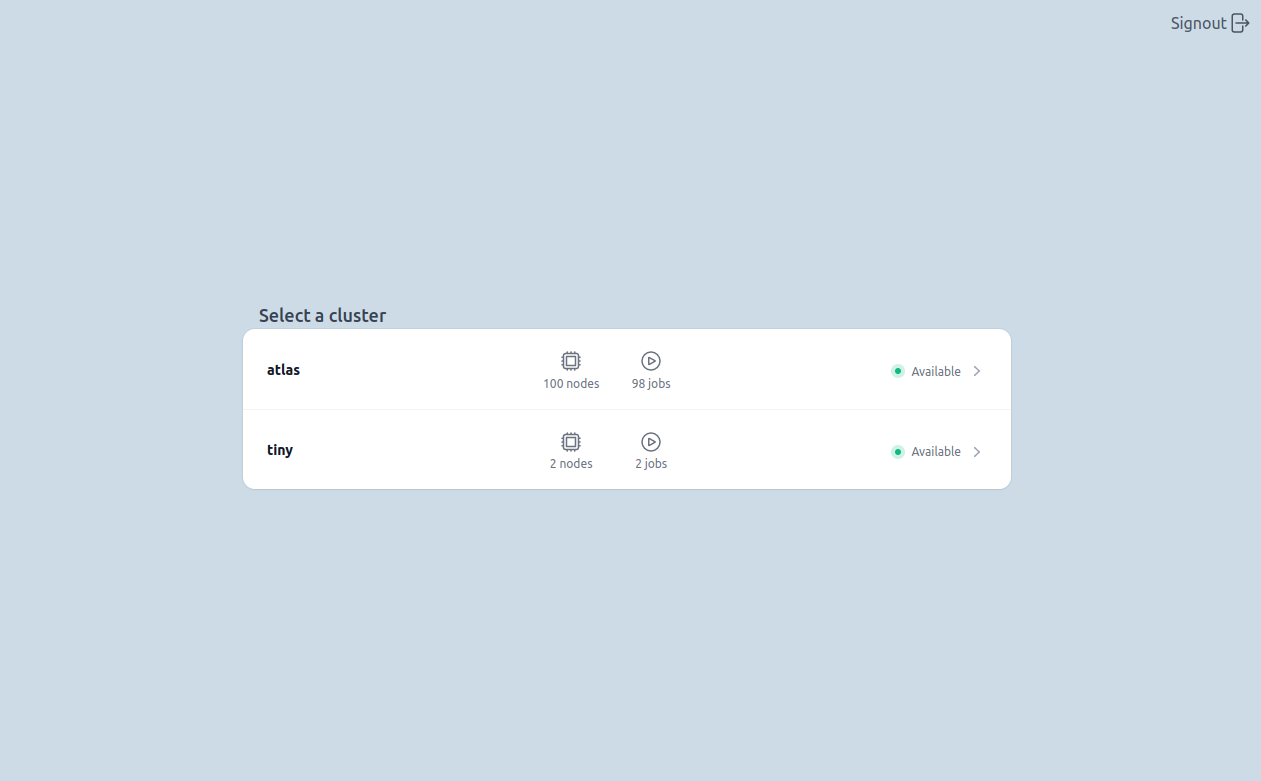
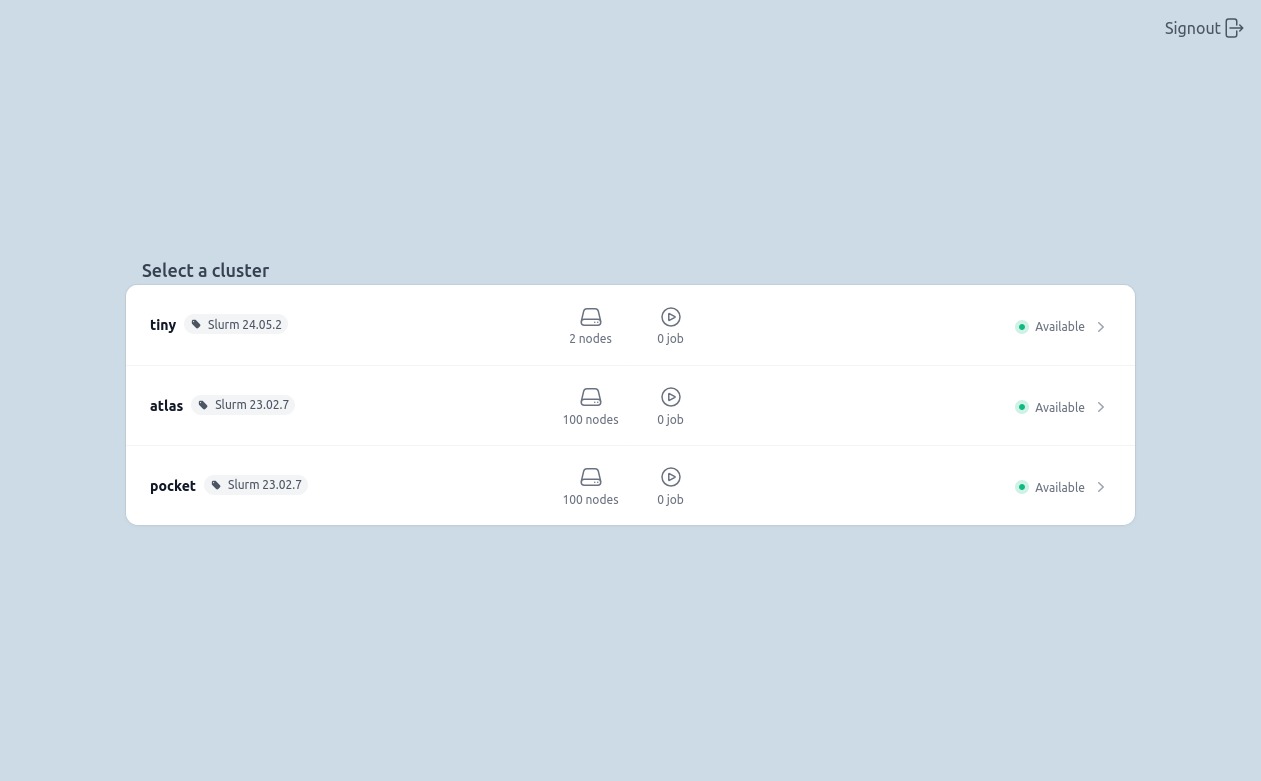
docs: update screenshots
Update screenshots to reflect latest changes in the UI.

Changed region(s): [[0.0928, 0.338, 0.9278, 0.6761], [0.9278, 0.0, 0.9897, 0.0615]]

diff --git a/CHANGELOG.md b/CHANGELOG.md
@@ -34,7 +34,9 @@ and this project adheres to [Semantic Versioning](https://semver.org/spec/v2.0.0
 - frontend: Add intermediate cluster list width to 80% on large screens, before
   going down to 60% on even larger screens.
 - pkgs: Add requirement on RFL.core and RFL.authentication >= 1.0.3.
-- docs: Update configuration reference documentation.
+- docs:
+  - Update configuration reference documentation.
+  - Update screenshots with latest UI changes.
 
 ### Fixed
 - backend: handle rfl.settings.errors.SettingsSiteLoaderError when loading
